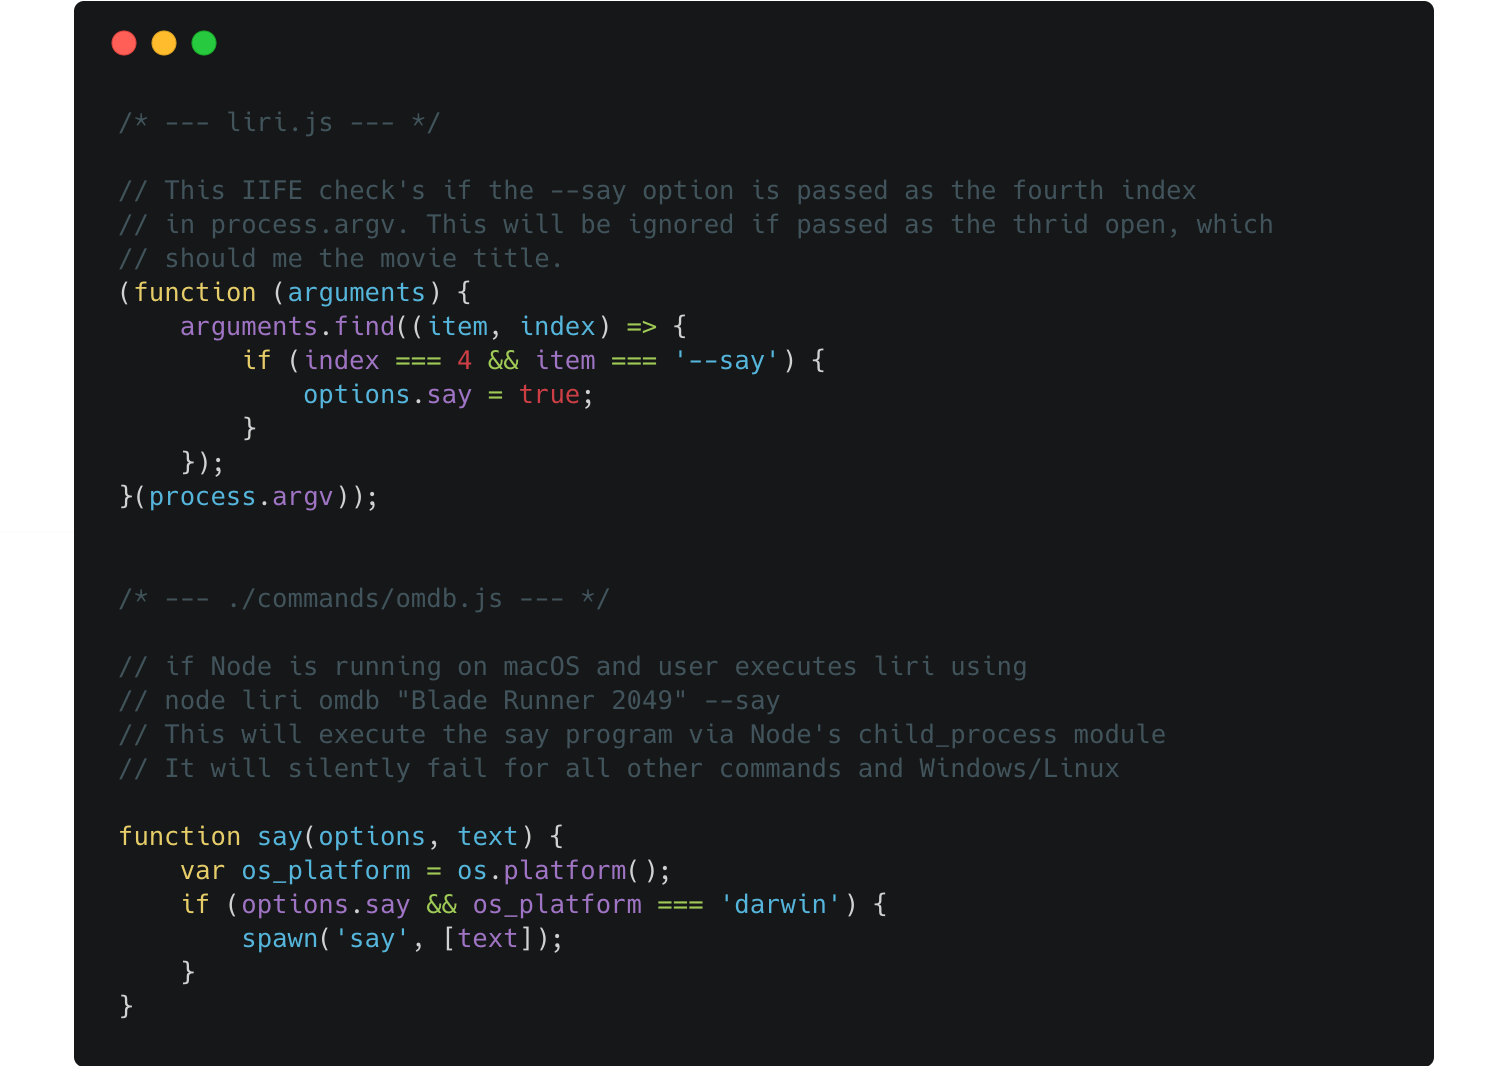
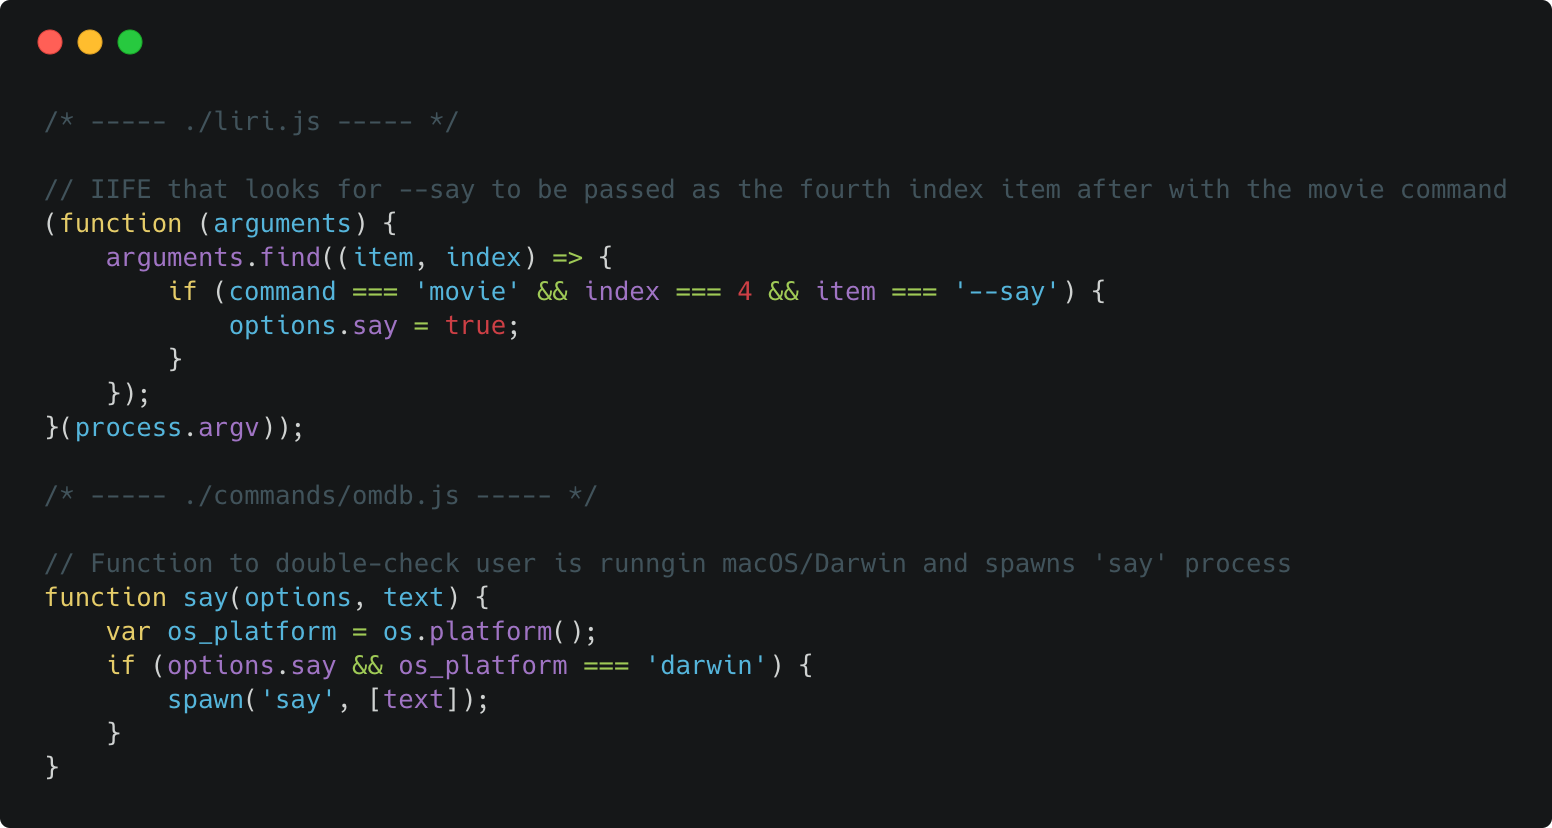
Ready for submission

diff --git a/commands/omdb.js b/commands/omdb.js
@@ -1,28 +1,42 @@
-require('dotenv').config();
+// Require the os module. Will use this to check if node is running in Darwin environment
 const os = require('os');
+// Require the child_process module's spawn method. Will execute the macOS say command
 const spawn = require("child_process").spawn;
+// Require the request module
 const request = require('request');
-const colors = require('colors');
-const theme = require("./colors_theme");
+
+// Require only the log_Data function from the logger module.
 const {log_data} = require('./logger');
 
+// Require and set colors theme
+const colors = require('colors');
+const theme = require("./colors_theme");
 colors.setTheme(theme);
+
+// Set default values for the OMDB requests
 let omdb = {
 	base: `http://www.omdbapi.com/?apikey=${process.env.OMDB_API_KEY}`,
 	type: 'movie',
 	t: 'Mr. Nobody'
 }
 
+// omdbRequest takes a movie title and options object.
+// options sets say to false as a default. This will be updated if/when user passed a --say argument and running node from macOS
 function omdbRequest(movie_title, options = {
 	say: false
 }) {
+	// Update the omdb options object with the movie title argument 
 	if (movie_title) {
 		omdb.t = movie_title;
 	}
 
+	// Encode the URL to be sent with each request to OMDB
 	omdb.url = encodeURI(`${omdb.base}&type=${omdb.type}&t=${omdb.t}`);
 
+	// Request movie information from OMDB
 	request(omdb.url, function (error, response, body) {
+
+		// Store each of the items we need from the response in a variable
 		var body = JSON.parse(body);
 		var os_platform = os.platform();
 		var rule = "\n\n--------------------------------------\n";
@@ -37,8 +51,10 @@ function omdbRequest(movie_title, options = {
 			omdb.movie_plot = body.Plot;
 			omdb.movie_ratings_obj = {};
 
+			// Build an object from the ratings array in the response object
 			buildRatingsObj(omdb.movie_ratings);
 
+			// Log information to the terminal
 			console.log(`\nTitle:`.omdb, `${omdb.movie_title}`.white);
 			console.log(`Year:`.omdb, `${omdb.movie_year}`.white);
 			console.log(`IMDB Rating:`.omdb, `${omdb.movie_ratings_obj.imdb}`.white);
@@ -50,13 +66,16 @@ function omdbRequest(movie_title, options = {
 			console.log(`Plot:`.omdb, `${omdb.movie_plot}`.white);
 			console.log(rule);
 
+			// Log data to the history.log file
 			log_data(`\nTitle: ${omdb.movie_title}\nYear: ${omdb.movie_year}\nIMDB Rating: ${omdb.movie_ratings_obj.imdb} Rotten Tomatoes Rating: ${omdb.movie_ratings_obj.rotten_tomatoes}\nCountry: ${omdb.movie_country}\nLanguage: ${omdb.movie_language}\nDirector: ${omdb.movie_director}\nActors: ${omdb.movie_actors}\n\nPlot: ${omdb.movie_plot}${rule}`);
 
+			// if user passed --say option and running node from Darwin (macOS) then spawn the say process 
 			if (options.say && os_platform === 'darwin') {
 				say(options, `${omdb.movie_title}. ${omdb.movie_year}. ${omdb.movie_plot}`);
 			}
 
 		} else {
+			// Log errors to the terminal and history.log
 			console.log("Error:".error, "Movie not found!".white);
 			log_data(`\nError: Movie not found!${rule}`);
 		}
@@ -64,6 +83,8 @@ function omdbRequest(movie_title, options = {
 	});
 }
 
+// Function used to build an object of ratings from IMDB, Rotten Tomatoes and Metacritic.
+// This is just for my own use and clarity when passing text to terminal and history.log
 function buildRatingsObj(ratingsArray) {
 	ratingsArray.map(item => {
 		switch (item.Source) {
@@ -80,6 +101,7 @@ function buildRatingsObj(ratingsArray) {
 	});
 }
 
+// Function to double-check user is runngin macOS/Darwin and spawns 'say' process
 function say(options, text) {
 	var os_platform = os.platform();
 	if (options.say && os_platform === 'darwin') {
@@ -87,4 +109,5 @@ function say(options, text) {
 	}
 }
 
+// Export to ../liri.js
 module.exports = omdbRequest;

diff --git a/commands/spotify.js b/commands/spotify.js
@@ -1,37 +1,57 @@
+//Require Spotify module
 const Spotify = require('node-spotify-api');
-const colors = require("colors");
-const theme = require("./colors_theme");
+
+// Require propercase module. This will convert the artists and titles to propercase.
 const propercase = require('propercase');
+
+// Require only the log data function
 const {log_data} = require('./logger');
 
+// Require and set the colors theme
+const colors = require("colors");
+const theme = require("./colors_theme");
 colors.setTheme(theme);
 
+// Create a new Spotify object
 let spotify = new Spotify({
 	id: process.env.SPOTIFY_CLIENT_ID,
 	secret: process.env.SPOTIFY_CLIENT_SECRET
 });
 
+// Default settings incase user does not enter a song title
 let searchSettings = {
 	type: 'track',
 	query: 'Ace of Base The Sign',
 	limit: 3
 }
 
+// Using async/await to make request. Using async/await:
+// 1) I feel the code is much cleaner
+// 2) will not return undefined to liri.js before the call completes, while not blocking other code
 async function getTracks(song_title) {
+
+	// Overwrite the default song title if user passes a title as a command line arguement
 	if (song_title) {
 		searchSettings.query = song_title;
 	}
+
+	// The tracks returned from Spotify API
 	var tracks = await spotify.search(searchSettings);
 
+	// Process each of the tracks returned from the response. 
 	return processTracks(tracks);
 }
 
+// The function to process each of the tracks returned from Spotify. Used much like a .then() call in a promise
 function processTracks(response) {
-
+	// Store track list in an array
 	var tracksResponseArray = response.tracks.items;
+	// Get number of tracks in the response
 	var numTracks = tracksResponseArray.length;
 
+	// Dp the following If the number of tracks is 1 or more.
 	if (numTracks > 0) {
+		//Map over each track, store necessary data to variables and log to terminal and history.log
 		tracksResponseArray.map(trackInfo => {
 			var artist_name = propercase(trackInfo.artists[0].name);
 			var song_title = trackInfo.name;
@@ -48,9 +68,12 @@ function processTracks(response) {
 
 		});
 	} else {
+		// If 0 tracks returned log to terminal and history.log
 		console.log("Could not find any tracks with this title.".error);
+		log_data(`\nCould not find any tracks with this title.\n\n-------------------\n`);
 	}
 
 }
 
+// Export getTracks function for use in ../liri.js
 module.exports = getTracks;

diff --git a/commands/twitter.js b/commands/twitter.js
@@ -1,11 +1,18 @@
+// Require Twitter module
 const Twitter = require('twitter');
-const colors = require('colors');
+
+// Require moment.js to format tweet dates
 const moment = require("moment");
-const theme = require("./colors_theme");
+
+// Require the log_data function from logger module.
 const {log_data} = require('./logger');
 
+// Require/set colors theme 
+const colors = require('colors');
+const theme = require("./colors_theme");
 colors.setTheme(theme);
 
+// Create new Twitter object with API keys/tokens
 let twitter = new Twitter({
 	consumer_key: process.env.TWITTER_CONSUMER_KEY,
 	consumer_secret: process.env.TWITTER_CONSUMER_SECRET,
@@ -13,11 +20,15 @@ let twitter = new Twitter({
 	access_token_secret: process.env.TWITTER_ACCESS_TOKEN_SECRET
 });
 
+// Set default options for twitter requests
 let params = {
 	screen_name: 'barackobama',
-	count: 5
+	count: 20
 };
 
+// Using async/await to make request to Twiiter. Using async/await:
+// 1) I feel the code is much cleaner
+// 2) will not return undefined to liri.js before the call completes, while not blocking other code
 async function getTweet(screenName) {
 	if (screenName) {
 		params.screen_name = screenName;
@@ -26,6 +37,7 @@ async function getTweet(screenName) {
 	return processTweets(tweets);
 }
 
+// The function to process each of the tweets returned from Twitter response. Used much like a .then() call in a promise
 function processTweets(tweets) {
 	tweets.map(tweet => {
 		// Store tweet info in variables
@@ -37,7 +49,8 @@ function processTweets(tweets) {
 		console.log(`\n@${screen_name}:`.tweets, `${tweet_text}`.white);
 		console.log(`Created: ${tweet_time}`.data);
 		console.log("\n-------------------\n");
-
+		
+		// Log tweet to the history.log
 		log_data(`\n@${screen_name}: ${tweet_text}\nCreated: ${tweet_time}\n\n-------------------\n`);
 	});
 

diff --git a/liri.js b/liri.js
@@ -1,5 +1,5 @@
 #! /usr/bin/env node
-// Require the .env file with access tokens
+ // Require the .env file with access tokens
 require('dotenv').config();
 // ---- OMDB ----
 const omdb = require('./commands/omdb');
@@ -12,23 +12,30 @@ const doWhatItSays = require('./commands/do-what-it-says');
 // ---- HELP INFO ----
 const help = require('./commands/help');
 // ---- COMMANDS/LOGGER/OPTIONS ----
+// Require only log_command from logger module
 const {log_command} = require('./commands/logger');
 let command = process.argv[2];
+
+// Set process index 3 to undefined if --say is passed before the any command, or without a command. This will ensure the user sees the help docs and not kill the node process.
 let handle_song_movie = process.argv[3] === "--say" ? undefined : process.argv[3];
 let options = {
 	say: false
 };
 
+// IIFE that looks for --say to be passed as the fourth index item after with the movie command
 (function (arguments) {
 	arguments.find((item, index) => {
-		if (index === 4 && item === '--say') {
+		if (command === 'movie' && index === 4 && item === '--say') {
 			options.say = true;
 		}
 	});
 }(process.argv));
 
+// Log the command to history.log
 log_command(process.argv);
 
+// Call a command/function based on the command entered on the command line.
+// The default case displays the help docs.
 switch (command) {
 	case ('tweets'):
 		twitter(handle_song_movie, options);

diff --git a/commands/do-what-it-says.js b/commands/do-what-it-says.js
@@ -1,8 +1,12 @@
+// Require the file system module to read the random.txt file
 const fs = require('fs');
+// Import the colors module
 const colors = require("colors");
+// Import and set the custom theme used for all modules
 const theme = require("./colors_theme");
 colors.setTheme(theme);
 
+// Store each of the commands in an object named commands. This will be used to call each function/command passed in from the command line
 const commands = {
 	help: require('./help'),
 	movie: require('./omdb'),
@@ -10,16 +14,22 @@ const commands = {
 	tweets: require('./twitter'),
 }
 
+// The function to export
 function doWhatItSays() {
+	// Asynchronously read the file random.txt. Throw error if file does not exist 
 	fs.readFile('./commands/random.txt', (error, data) => {
 		if (error) {
 			throw error
 		};
 
+		// Data is an buffer. Conver to string and split on the comma to create an array
 		var randomTxt = data.toString().split(',');
+		// the command is index 0
 		var command = randomTxt[0];
+		// the argument is index 1
 		var handle_song_movie = randomTxt[1];
 
+		// Each command is a function. If the the command is not a valid value, display the help info
 		if (typeof commands[command] === 'function') {
 			commands[command](handle_song_movie);
 		} else {
@@ -29,4 +39,5 @@ function doWhatItSays() {
 	});
 }
 
+// Export the function.
 module.exports = doWhatItSays;

diff --git a/commands/logger.js b/commands/logger.js
@@ -1,20 +1,31 @@
 const fs = require('fs');
 
+// log_data takes a string of text and appends data to the history.log file.
+// This function logs all the tweets, omdb, and spotify information to the log file
+// The function is imported in to each of the command modules and called after the data has been logged to the screen.
 function log_data(textToLog) {
 	fs.appendFile("./history.log", textToLog, (error, data) => {
+		// Kill the process if there is an error when writing to history.log
 		if (error) throw Error("Something went wrong while logging data.")
 	});
 }
 
+// log_command is imported in the entry file (../liri.js) It is called before the switch statment
 function log_command(arguments) {
+	// assign arguments from command line to variables
 	let command = arguments[2];
 	let value = arguments[3];
+
+	// Convert the commands to a decorated string of text
 	let logCommandText = `\n*** Command: ${command} | Value: ${value} ***\n`
+	
+	// Append to the log file;
 	fs.appendFile("./history.log", logCommandText, (error, data) => {
 		if (error) throw Error("Something went wrong while logging history.")
 	});
 }
 
+// Export both functions
 module.exports = {
 	log_data: log_data,
 	log_command: log_command

diff --git a/readme.md b/readme.md
@@ -9,13 +9,55 @@ LIRI is a command line Node application that takes in parameters (via command li
 [![npm](https://img.shields.io/npm/dt/liri-cli.svg)](https://www.npmjs.com/package/liri-cli)
 [![GitHub last commit](https://img.shields.io/github/last-commit/jeffreylowy/liri-node-app.svg)](https://github.com/jeffreylowy/liri-node-app)
 
+## Table of Contents
+
+- [Liri Commands](#liri-commands)
+- [Make LIRI speak](#make-liri-speak)
+- [Install and run via NPM](#install-and-run-via-npm)
+- [Resources](#resources)
+
 ---------------------------
 
 ### LIRI Commands
-<img src="docs/carbon-commands.png">
 
-### Make LIRI speak using Node's child_process.spawn 
+**Command**|**Value**|**Options**|**Example**|**Description**
+:-----:|:-----:|:-----:|:-----:|:-----:
+movie|"movie title"|--say|node liri "Blade Runner 2049" --say|Display movie information from OMDB. If host environment is macOS/Darwin, the --say flag will convert the plot text to audible speech.
+spotify|"song title"|-|node liri "Thriller"|Display song information from Spotify. The default song is "The Sign" if no value is entered via the command line.
+tweets|twitter handle|-|node liri "jeffreylowy"|Display 20 tweets from Twitter. The default account is @barackobama if no value is entered via the command line.
+do-what-it-says|-|-|node liri do-what-it-says|Run whatever command and value are saved to the random.txt stored in the commands directory
+
+_You can also run via npm scripts. See [Install and run via NPM](#install-and-run-via-npm)_
+
+### Make LIRI speak
+
+If Node is running on macOS/Darwin, you can make LIRI read movie plot information by passing the `--say` flag after the movie's title. This only works when the full command is entered.
+
+Example: `node liri movie "Blade Runner 2049" --say`
+
 <img src="docs/carbon-say.png">
+
+### Install and run via NPM
+
+This project was uploaded to NPM under the package name `liri-cli`.
+
+Install: `npm i liri-cli`
+
+If installed via NPM you can run using NPM scripts
+
+Example: `npm run [movie, spotify, tweets, do] <value>`
+
+__*If installed via NPM you will need to create a .env file in the root directory to store your keys/tokens*__
+
+OMDB_API_KEY=XXXXX <br>
+SPOTIFY_CLIENT_ID=XXXXX <br>
+SPOTIFY_CLIENT_SECRET=XXXXX <br>
+TWITTER_CONSUMER_KEY=XXXXX <br>
+TWITTER_CONSUMER_SECRET=XXXXX <br>
+TWITTER_ACCESS_TOKEN_KEY=XXXXX <br>
+TWITTER_ACCESS_TOKEN_SECRET=XXXXX <br>
+
+For more information, visit the NPM page for [dotenv](https://www.npmjs.com/package/dotenv).
 
 ### Resources 
 
